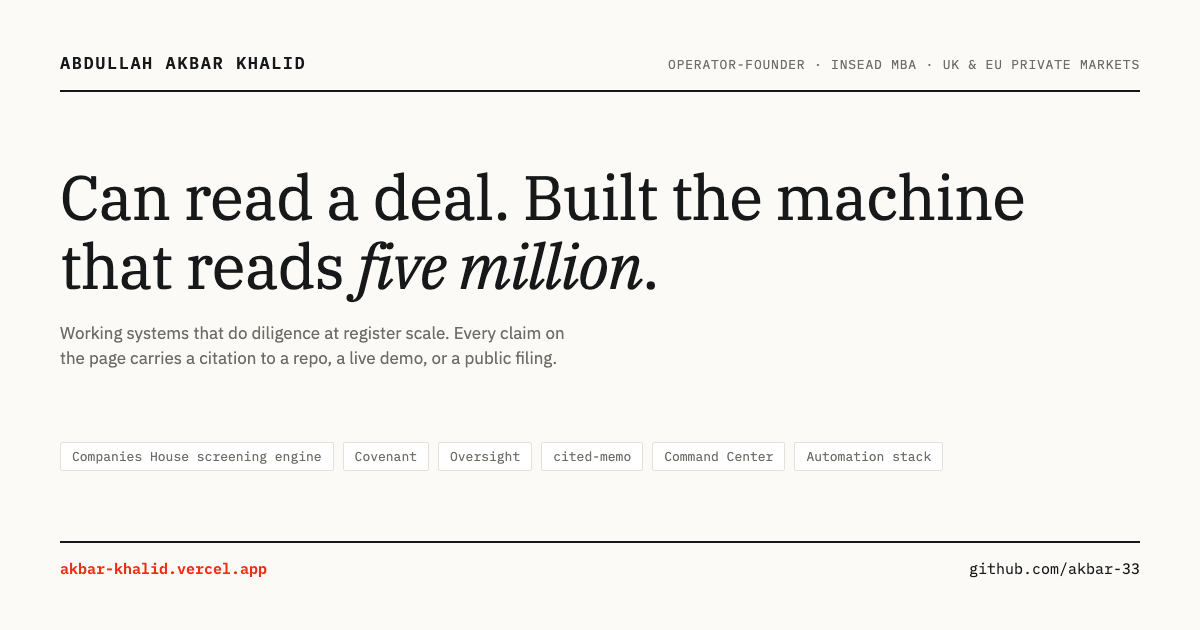
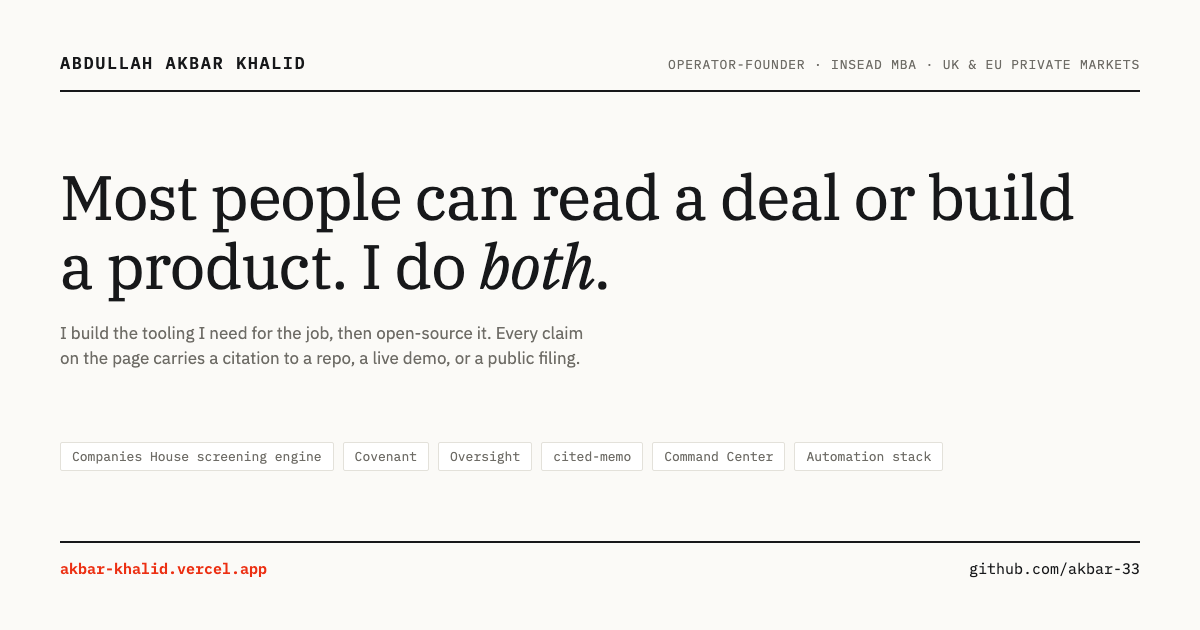
New hero: positioning line up top, tooling line beneath

Changed region(s): [[0.0308, 0.2714, 0.8942, 0.4825], [0.0308, 0.5127, 0.4933, 0.6032]]

diff --git a/index.html b/index.html
@@ -19,7 +19,7 @@
 <link rel="preconnect" href="https://fonts.gstatic.com" crossorigin>
 <link href="https://fonts.googleapis.com/css2?family=IBM+Plex+Mono:wght@400;500;600&family=IBM+Plex+Sans:wght@400;500;600&family=IBM+Plex+Serif:ital,wght@0,400;0,600;1,400&display=swap" rel="stylesheet">
 <link rel="stylesheet" href="/style.css">
-<script>(function(){document.documentElement.classList.add("js");try{if(localStorage.getItem("ak-theme")==="light")document.documentElement.setAttribute("data-theme","light")}catch(e){}})();</script>
+<script>(function(){try{if(localStorage.getItem("ak-theme")==="light")document.documentElement.setAttribute("data-theme","light")}catch(e){}})();</script>
 
 </head>
 <body><header class="masthead">
@@ -37,8 +37,8 @@
 <section class="thesis">
   <div class="wrap">
     <p class="eyebrow reveal">Operator-founder · INSEAD MBA · UK &amp; EU private markets</p>
-    <h2 class="reveal d1">Can read a deal. Built the machine that reads <em>five million</em>.</h2>
-    <p class="reveal d2">Most people can read a deal or build a product. I do both, and this page is the receipts: working systems that do diligence work at register scale, built and run by me.</p>
+    <h2 class="reveal d1">Most people can read a deal or build a product. I do <em>both</em>.</h2>
+    <p class="reveal d2">I build the tooling I need for the job, then open-source it: deal sourcing at register scale, covenant checks, AI governance records, memo verification. The diligence stack I wanted and couldn't buy.</p>
     <p class="method reveal d3">One house rule, borrowed from my own tooling: every claim below carries a citation to its source, whether a repo, a live demo, or a public filing. What can't be cited is labelled private, not left implied. Each exhibit opens into a full case page, so you never have to leave for GitHub to see how it works.</p>
   </div>
 </section>

diff --git a/automation-stack.html b/automation-stack.html
@@ -19,7 +19,7 @@
 <link rel="preconnect" href="https://fonts.gstatic.com" crossorigin>
 <link href="https://fonts.googleapis.com/css2?family=IBM+Plex+Mono:wght@400;500;600&family=IBM+Plex+Sans:wght@400;500;600&family=IBM+Plex+Serif:ital,wght@0,400;0,600;1,400&display=swap" rel="stylesheet">
 <link rel="stylesheet" href="/style.css">
-<script>(function(){document.documentElement.classList.add("js");try{if(localStorage.getItem("ak-theme")==="light")document.documentElement.setAttribute("data-theme","light")}catch(e){}})();</script>
+<script>(function(){try{if(localStorage.getItem("ak-theme")==="light")document.documentElement.setAttribute("data-theme","light")}catch(e){}})();</script>
 
 </head>
 <body><header class="masthead">

diff --git a/cited-memo.html b/cited-memo.html
@@ -19,7 +19,7 @@
 <link rel="preconnect" href="https://fonts.gstatic.com" crossorigin>
 <link href="https://fonts.googleapis.com/css2?family=IBM+Plex+Mono:wght@400;500;600&family=IBM+Plex+Sans:wght@400;500;600&family=IBM+Plex+Serif:ital,wght@0,400;0,600;1,400&display=swap" rel="stylesheet">
 <link rel="stylesheet" href="/style.css">
-<script>(function(){document.documentElement.classList.add("js");try{if(localStorage.getItem("ak-theme")==="light")document.documentElement.setAttribute("data-theme","light")}catch(e){}})();</script>
+<script>(function(){try{if(localStorage.getItem("ak-theme")==="light")document.documentElement.setAttribute("data-theme","light")}catch(e){}})();</script>
 
 </head>
 <body><header class="masthead">

diff --git a/command-center.html b/command-center.html
@@ -19,7 +19,7 @@
 <link rel="preconnect" href="https://fonts.gstatic.com" crossorigin>
 <link href="https://fonts.googleapis.com/css2?family=IBM+Plex+Mono:wght@400;500;600&family=IBM+Plex+Sans:wght@400;500;600&family=IBM+Plex+Serif:ital,wght@0,400;0,600;1,400&display=swap" rel="stylesheet">
 <link rel="stylesheet" href="/style.css">
-<script>(function(){document.documentElement.classList.add("js");try{if(localStorage.getItem("ak-theme")==="light")document.documentElement.setAttribute("data-theme","light")}catch(e){}})();</script>
+<script>(function(){try{if(localStorage.getItem("ak-theme")==="light")document.documentElement.setAttribute("data-theme","light")}catch(e){}})();</script>
 
 </head>
 <body><header class="masthead">

diff --git a/covenant.html b/covenant.html
@@ -19,7 +19,7 @@
 <link rel="preconnect" href="https://fonts.gstatic.com" crossorigin>
 <link href="https://fonts.googleapis.com/css2?family=IBM+Plex+Mono:wght@400;500;600&family=IBM+Plex+Sans:wght@400;500;600&family=IBM+Plex+Serif:ital,wght@0,400;0,600;1,400&display=swap" rel="stylesheet">
 <link rel="stylesheet" href="/style.css">
-<script>(function(){document.documentElement.classList.add("js");try{if(localStorage.getItem("ak-theme")==="light")document.documentElement.setAttribute("data-theme","light")}catch(e){}})();</script>
+<script>(function(){try{if(localStorage.getItem("ak-theme")==="light")document.documentElement.setAttribute("data-theme","light")}catch(e){}})();</script>
 
 </head>
 <body><header class="masthead">

diff --git a/oversight.html b/oversight.html
@@ -19,7 +19,7 @@
 <link rel="preconnect" href="https://fonts.gstatic.com" crossorigin>
 <link href="https://fonts.googleapis.com/css2?family=IBM+Plex+Mono:wght@400;500;600&family=IBM+Plex+Sans:wght@400;500;600&family=IBM+Plex+Serif:ital,wght@0,400;0,600;1,400&display=swap" rel="stylesheet">
 <link rel="stylesheet" href="/style.css">
-<script>(function(){document.documentElement.classList.add("js");try{if(localStorage.getItem("ak-theme")==="light")document.documentElement.setAttribute("data-theme","light")}catch(e){}})();</script>
+<script>(function(){try{if(localStorage.getItem("ak-theme")==="light")document.documentElement.setAttribute("data-theme","light")}catch(e){}})();</script>
 
 </head>
 <body><header class="masthead">

diff --git a/screening-engine.html b/screening-engine.html
@@ -19,7 +19,7 @@
 <link rel="preconnect" href="https://fonts.gstatic.com" crossorigin>
 <link href="https://fonts.googleapis.com/css2?family=IBM+Plex+Mono:wght@400;500;600&family=IBM+Plex+Sans:wght@400;500;600&family=IBM+Plex+Serif:ital,wght@0,400;0,600;1,400&display=swap" rel="stylesheet">
 <link rel="stylesheet" href="/style.css">
-<script>(function(){document.documentElement.classList.add("js");try{if(localStorage.getItem("ak-theme")==="light")document.documentElement.setAttribute("data-theme","light")}catch(e){}})();</script>
+<script>(function(){try{if(localStorage.getItem("ak-theme")==="light")document.documentElement.setAttribute("data-theme","light")}catch(e){}})();</script>
 
 </head>
 <body><header class="masthead">
